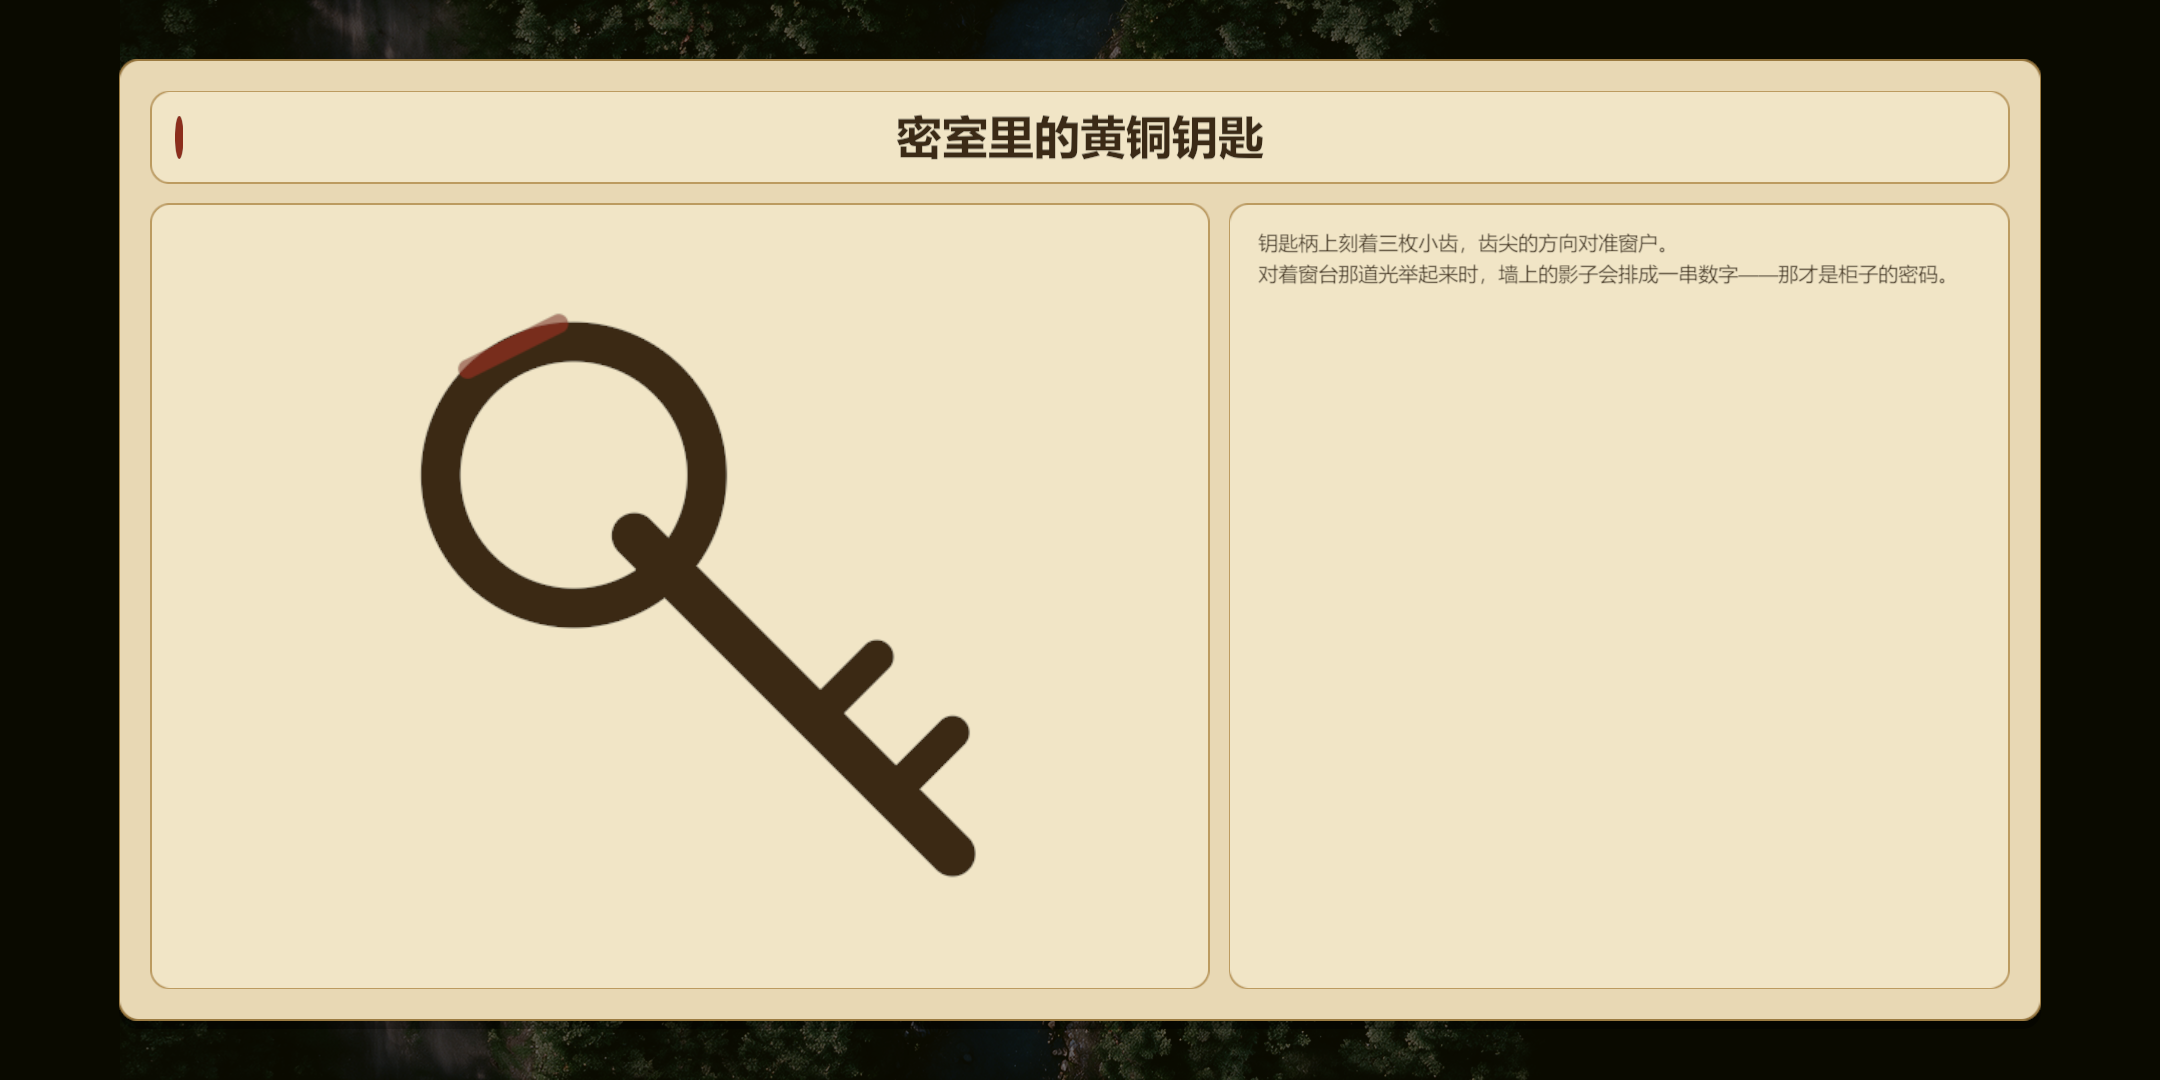
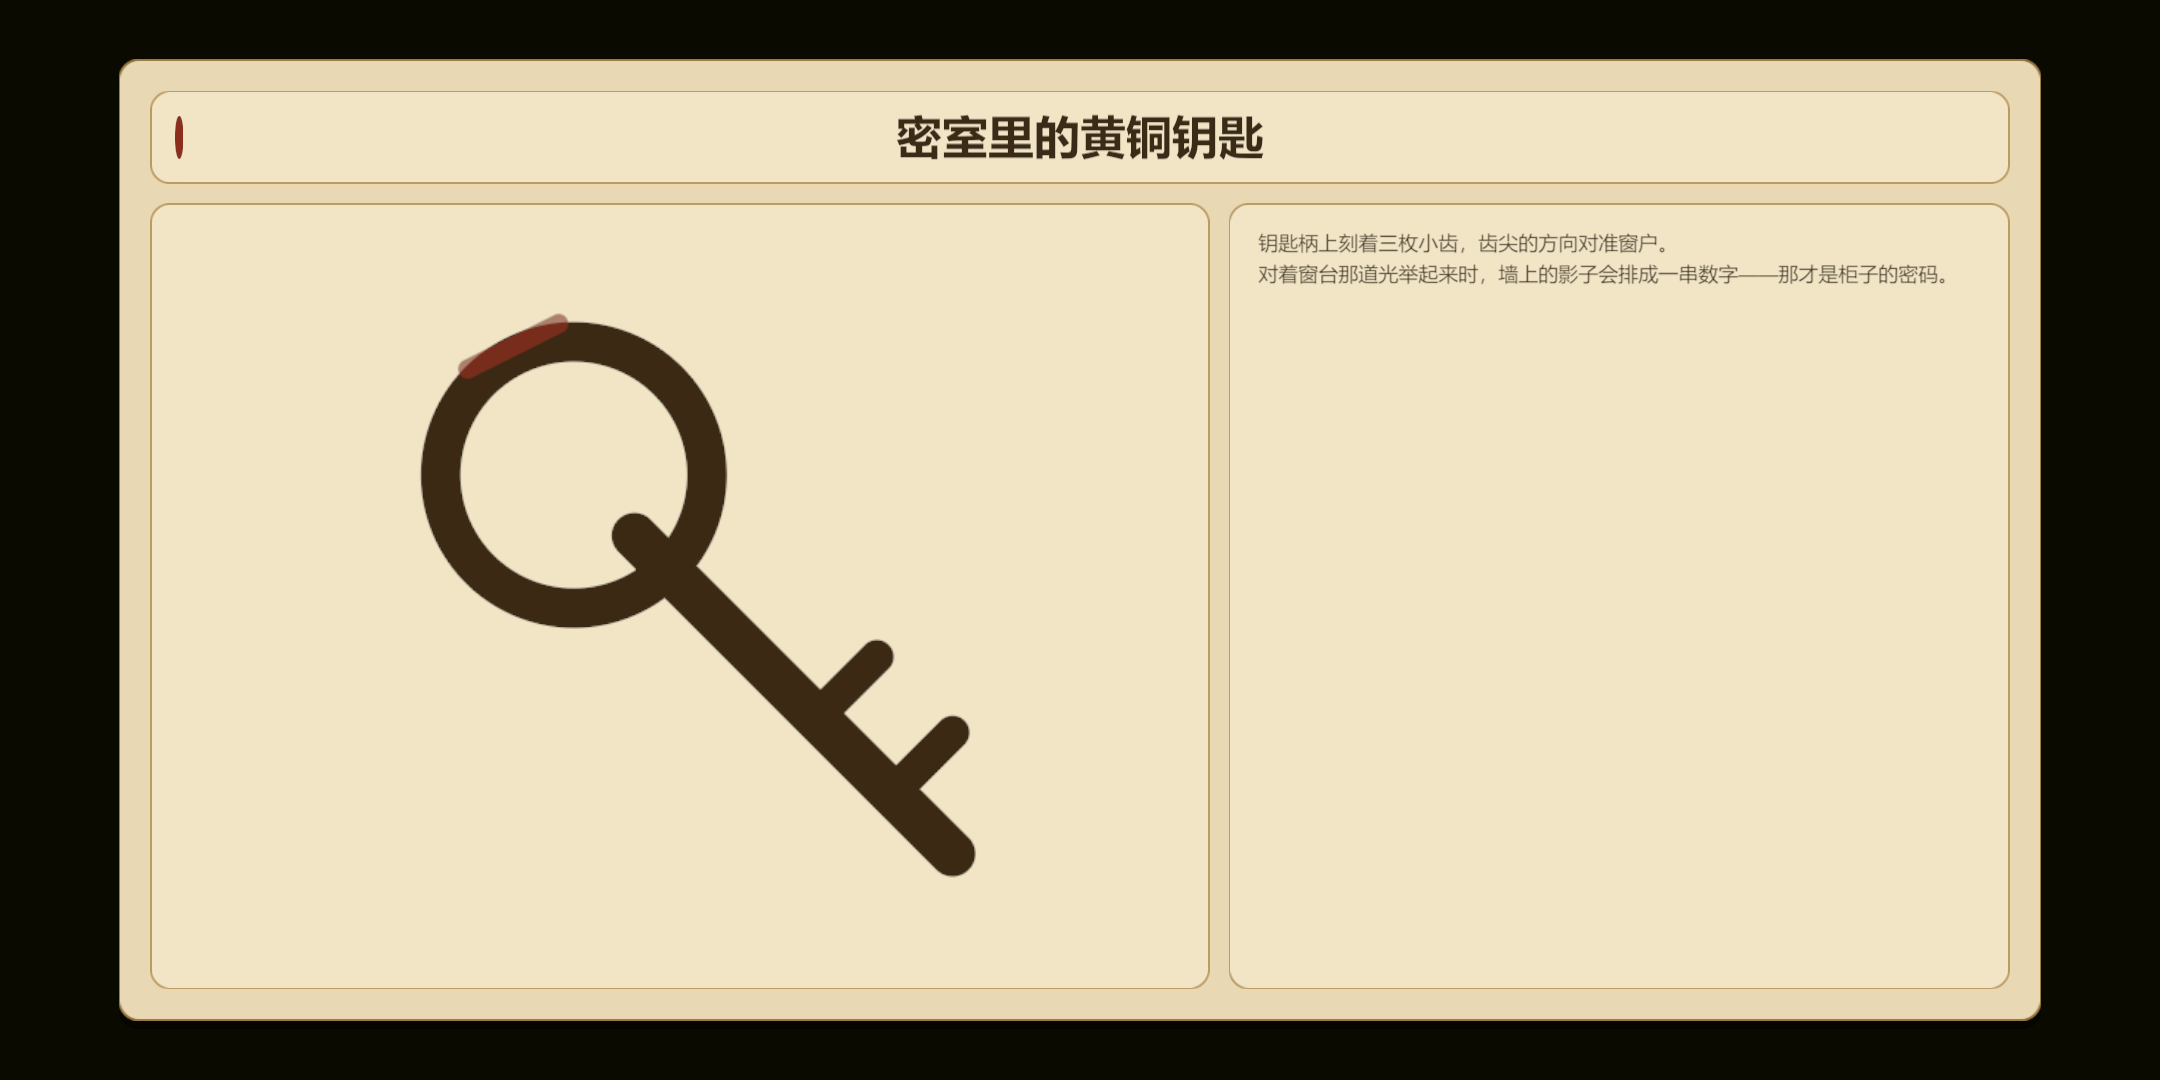
fix(放大镜): 修前端图片显示不出来（动画没起过时 StopTween 把媒体块缩成了 0）
现象：前端放大镜窗里那张图不显示（标题 / 文字 / 纸面都在，就媒体那块空着）。

原因：v33 的 tween 里，\\ApplyTween\\ 一上来先调 \\StopTween\\；\\	weenBaseScale\\ 初值是 (0,0,0)，于是「这一屏没有动画」时反而把 \\
rame.localScale\\ 写成了 0——整块媒体（含图）被缩没了。加了 \\	weenApplied\\ 标记：只有真起过动画才还原基准。

顺带把上一版的「媒体外框 Media」去掉（实测 Frame 挂它下面时图与视频都生成不出网格）——Frame 与视频都直接挂 Content，动画同时作用两者；并修正 Bind 里 Frame / Image 的节点路径（加 Media 那次漏改，导致退回代码构建、多搭一套）。

diff --git a/client/Assets/DiceTale/Scripts/Presentation/UI/MagnifierWindow.cs b/client/Assets/DiceTale/Scripts/Presentation/UI/MagnifierWindow.cs
@@ -102,9 +102,6 @@ namespace DiceTale
         private RectTransform content;
         private Text bodyText;
 
-        /// <summary>媒体那块（图 / 视频）共同的外框（v33）：动画（tween）作用在它身上。</summary>
-        private RectTransform mediaRoot;
-
         /// <summary>当前显示的那张资源逻辑 ID 与那一格（用来判断「同一张就别重建」）。</summary>
         private string currentId = "";
         private MirrorSprite currentSprite;
@@ -118,6 +115,17 @@ namespace DiceTale
         private Vector2 tweenBasePosition;
         private Vector3 tweenBaseScale;
         private Quaternion tweenBaseRotation;
+
+        /// <summary>视频那块自己一套基准：它挂在 `Content` 上、不在 `Frame` 里，动画要**跟着一起动**。</summary>
+        private Vector2 videoBasePosition;
+        private Vector3 videoBaseScale = Vector3.one;
+        private Quaternion videoBaseRotation = Quaternion.identity;
+
+        /// <summary>
+        /// **起过一次动画**才为真。`StopTween` 只在它为真时把基准写回去——否则（第一次铺屏、
+        /// 预设里 `frame.localScale` 是 1）会拿默认的 `Vector3.zero` 基准把整块缩成 0（踩过）。
+        /// </summary>
+        private bool tweenApplied;
 
         /// <summary>视频那块（v33）：`RawImage` 显示 `RenderTexture`，`VideoPlayer` 按 URL 放（与图二选一）。</summary>
         private RawImage videoImage;
@@ -202,11 +210,8 @@ namespace DiceTale
             bodyCard = foundBody as RectTransform;
             bodyText = foundBodyTextGraphic;
 
-            // 媒体外框（v33；老 prefab 里可能没有——那时动画没有载体，退化到动 Frame）
-            mediaRoot = transform.Find("Panel/PanelFill/Padding/Content/Media") as RectTransform;
-
-            // 视频那块（v33）：挂在媒体外框下（不挂进 FrameFill，见 Build 的说明）
-            var foundVideo = transform.Find("Panel/PanelFill/Padding/Content/Media/Video");
+            // 视频那块（v33）：挂在 Content 上（**不能挂进 `FrameFill`**，见 Build 的说明）
+            var foundVideo = transform.Find("Panel/PanelFill/Padding/Content/Video");
             videoImage = foundVideo == null ? null : foundVideo.GetComponent<RawImage>();
             videoPlayer = GetComponent<VideoPlayer>();
             return true;
@@ -351,12 +356,12 @@ namespace DiceTale
         /// </summary>
         private void SyncVideoRect()
         {
-            if (videoImage == null || frame == null || mediaRoot == null)
+            if (videoImage == null || frame == null || content == null)
             {
                 return;
             }
 
-            var media = mediaRoot.rect;
+            var media = content.rect;
             var area = frame.rect.size;
             var inset = (BorderWidth + ImageInset) * 2f;
             var availableWidth = Mathf.Max(1f, area.x - inset);
@@ -451,14 +456,23 @@ namespace DiceTale
         private void ApplyTween(MagnifierTween tween)
         {
             StopTween();
-            if (mediaRoot == null || tween == MagnifierTween.None || !isActiveAndEnabled)
+            if (frame == null || tween == MagnifierTween.None || !isActiveAndEnabled)
             {
                 return;
             }
 
-            tweenBasePosition = mediaRoot.anchoredPosition;
-            tweenBaseScale = mediaRoot.localScale;
-            tweenBaseRotation = mediaRoot.localRotation;
+            tweenBasePosition = frame.anchoredPosition;
+            tweenBaseScale = frame.localScale;
+            tweenBaseRotation = frame.localRotation;
+            if (videoImage != null)
+            {
+                var videoRect = videoImage.rectTransform;
+                videoBasePosition = videoRect.anchoredPosition;
+                videoBaseScale = videoRect.localScale;
+                videoBaseRotation = videoRect.localRotation;
+            }
+
+            tweenApplied = true;
             tweenRoutine = StartCoroutine(AnimateTween(tween));
         }
 
@@ -470,11 +484,27 @@ namespace DiceTale
                 tweenRoutine = null;
             }
 
-            if (mediaRoot != null)
+            // 没起过动画就别动它：基准还没采过（默认全 0），写回去会把媒体块缩成 0
+            if (!tweenApplied)
             {
-                mediaRoot.anchoredPosition = tweenBasePosition;
-                mediaRoot.localScale = tweenBaseScale;
-                mediaRoot.localRotation = tweenBaseRotation;
+                return;
+            }
+
+            tweenApplied = false;
+
+            if (frame != null)
+            {
+                frame.anchoredPosition = tweenBasePosition;
+                frame.localScale = tweenBaseScale;
+                frame.localRotation = tweenBaseRotation;
+            }
+
+            if (videoImage != null)
+            {
+                var videoRect = videoImage.rectTransform;
+                videoRect.anchoredPosition = videoBasePosition;
+                videoRect.localScale = videoBaseScale;
+                videoRect.localRotation = videoBaseRotation;
             }
         }
 
@@ -485,23 +515,37 @@ namespace DiceTale
             while (true)
             {
                 phase += Time.deltaTime;
+                var position = tweenBasePosition;
+                var scale = tweenBaseScale;
+                var rotation = tweenBaseRotation;
                 switch (tween)
                 {
                     case MagnifierTween.Shake:
-                        mediaRoot.anchoredPosition =
-                            tweenBasePosition + new Vector2(Wave(phase, ShakeHz) * ShakePixels, 0f);
+                        position += new Vector2(Wave(phase, ShakeHz) * ShakePixels, 0f);
                         break;
                     case MagnifierTween.Breathe:
-                        mediaRoot.localScale = tweenBaseScale * (1f + Wave(phase, BreatheHz) * BreatheScale);
+                        scale *= 1f + Wave(phase, BreatheHz) * BreatheScale;
                         break;
                     case MagnifierTween.Float:
-                        mediaRoot.anchoredPosition =
-                            tweenBasePosition + new Vector2(0f, Wave(phase, FloatHz) * FloatPixels);
+                        position += new Vector2(0f, Wave(phase, FloatHz) * FloatPixels);
                         break;
                     case MagnifierTween.Sway:
-                        mediaRoot.localRotation =
-                            tweenBaseRotation * Quaternion.Euler(0f, 0f, Wave(phase, SwayHz) * SwayDegrees);
+                        rotation *= Quaternion.Euler(0f, 0f, Wave(phase, SwayHz) * SwayDegrees);
                         break;
+                }
+
+                frame.anchoredPosition = position;
+                frame.localScale = scale;
+                frame.localRotation = rotation;
+
+                // 视频那块挂在 Content 上（不在 Frame 里）：把**同一份相对变化**套到它身上，两者一起动
+                if (videoImage != null)
+                {
+                    var videoRect = videoImage.rectTransform;
+                    var ratio = Mathf.Approximately(tweenBaseScale.x, 0f) ? 1f : scale.x / tweenBaseScale.x;
+                    videoRect.anchoredPosition = videoBasePosition + (position - tweenBasePosition);
+                    videoRect.localScale = videoBaseScale * ratio;
+                    videoRect.localRotation = videoBaseRotation * (Quaternion.Inverse(tweenBaseRotation) * rotation);
                 }
 
                 yield return null;
@@ -609,22 +653,12 @@ namespace DiceTale
             content.offsetMax = new Vector2(0f, -(TitleHeight + Gap));
 
             /*
-              媒体那块（图 / 视频）共同的**外框**（v33）：动画作用在它上面，图与视频才会一起动。
-              视频**不能挂进 `FrameFill`**（实测那个带 Sliced 圆角图的 Image 底下 `RawImage` 生成不出
-              网格），所以图与视频都挂这一层、各自摆位。
-            */
-            var mediaGo = new GameObject("Media", typeof(RectTransform));
-            mediaGo.transform.SetParent(content, false);
-            mediaRoot = mediaGo.GetComponent<RectTransform>();
-            Stretch(mediaRoot);
-
-            /*
               图那一块：与标题 / 文字**同款卡片表面**（三块一块料），里面那张等比装下。
               为什么不用「量出可视区再算像素」（编辑器那扇窗的 `fitBox` 那样）：uGUI 的
               `preserveAspect` 就是「在这个矩形里等比装下」，宽高比交给它，一行都不用算——
               编辑器那边要算是因为 canvas 还要按同一块矩形做像素级擦除，这里没有那件事。
             */
-            frame = CreateCard("Frame", mediaRoot, CardFill, CardEdge, out var frameContent);
+            frame = CreateCard("Frame", content, CardFill, CardEdge, out var frameContent);
             frame.anchorMin = new Vector2(0f, 0f);
             frame.anchorMax = new Vector2(ImageWidthRatio, 1f);
             frame.offsetMin = Vector2.zero;
@@ -646,7 +680,7 @@ namespace DiceTale
               `SyncVideoRect` 按媒体那块的尺寸与视频长宽比居中装下。一开始整块关着：首帧到了才显示。
             */
             var videoGo = new GameObject("Video", typeof(RawImage));
-            videoGo.transform.SetParent(mediaRoot, false);
+            videoGo.transform.SetParent(content, false);
             videoImage = videoGo.GetComponent<RawImage>();
             videoImage.raycastTarget = false;
             videoGo.SetActive(false);
